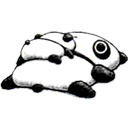
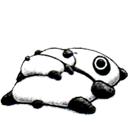
Animate Alert and Connecting

diff --git a/README.md b/README.md
@@ -13,10 +13,13 @@ Adium dock icon set featuring Tarepanda
 ![Online](https://raw.github.com/songe/TarePanda-AdiumIcon/master/TarePanda.AdiumIcon/Online.png)
 
 - New Message
-![New Message](https://raw.github.com/songe/TarePanda-AdiumIcon/master/TarePanda.AdiumIcon/Alert.png)
+![New Message](https://raw.github.com/songe/TarePanda-AdiumIcon/master/TarePanda.AdiumIcon/Alert1.png)
+![New Message](https://raw.github.com/songe/TarePanda-AdiumIcon/master/TarePanda.AdiumIcon/Alert2.png)
 
 - Away/Idle
 ![Away/Idle](https://raw.github.com/songe/TarePanda-AdiumIcon/master/TarePanda.AdiumIcon/Away.png)
 
 - Connecting
 ![Connecting](https://raw.github.com/songe/TarePanda-AdiumIcon/master/TarePanda.AdiumIcon/Connecting1.png)
+![Connecting](https://raw.github.com/songe/TarePanda-AdiumIcon/master/TarePanda.AdiumIcon/Connecting2.png)
+![Connecting](https://raw.github.com/songe/TarePanda-AdiumIcon/master/TarePanda.AdiumIcon/Connecting3.png)
